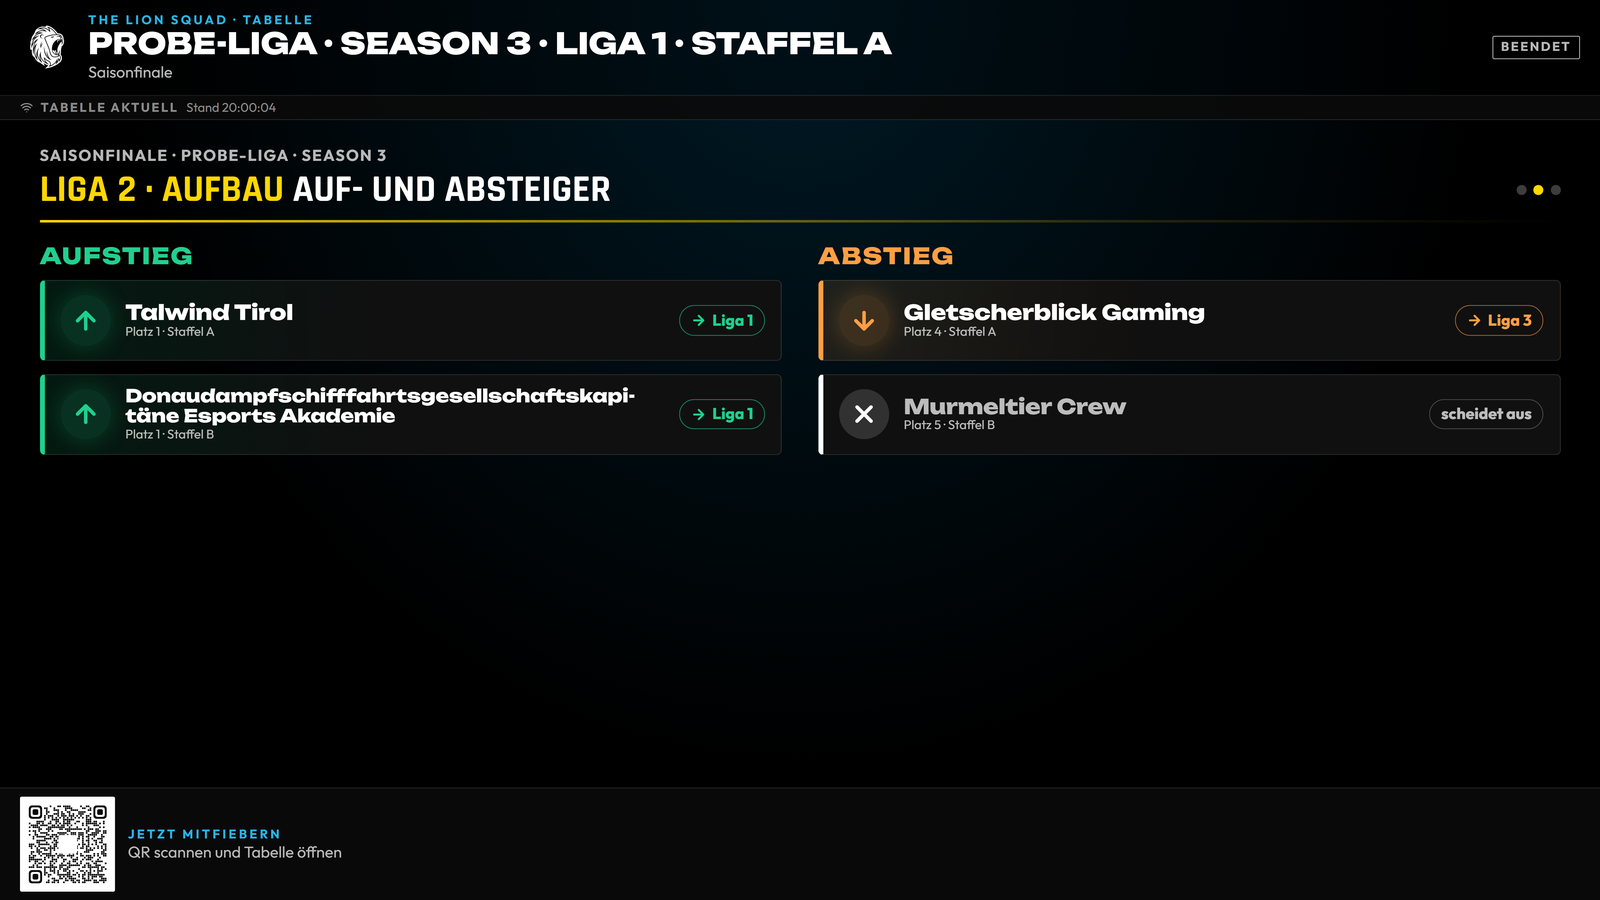
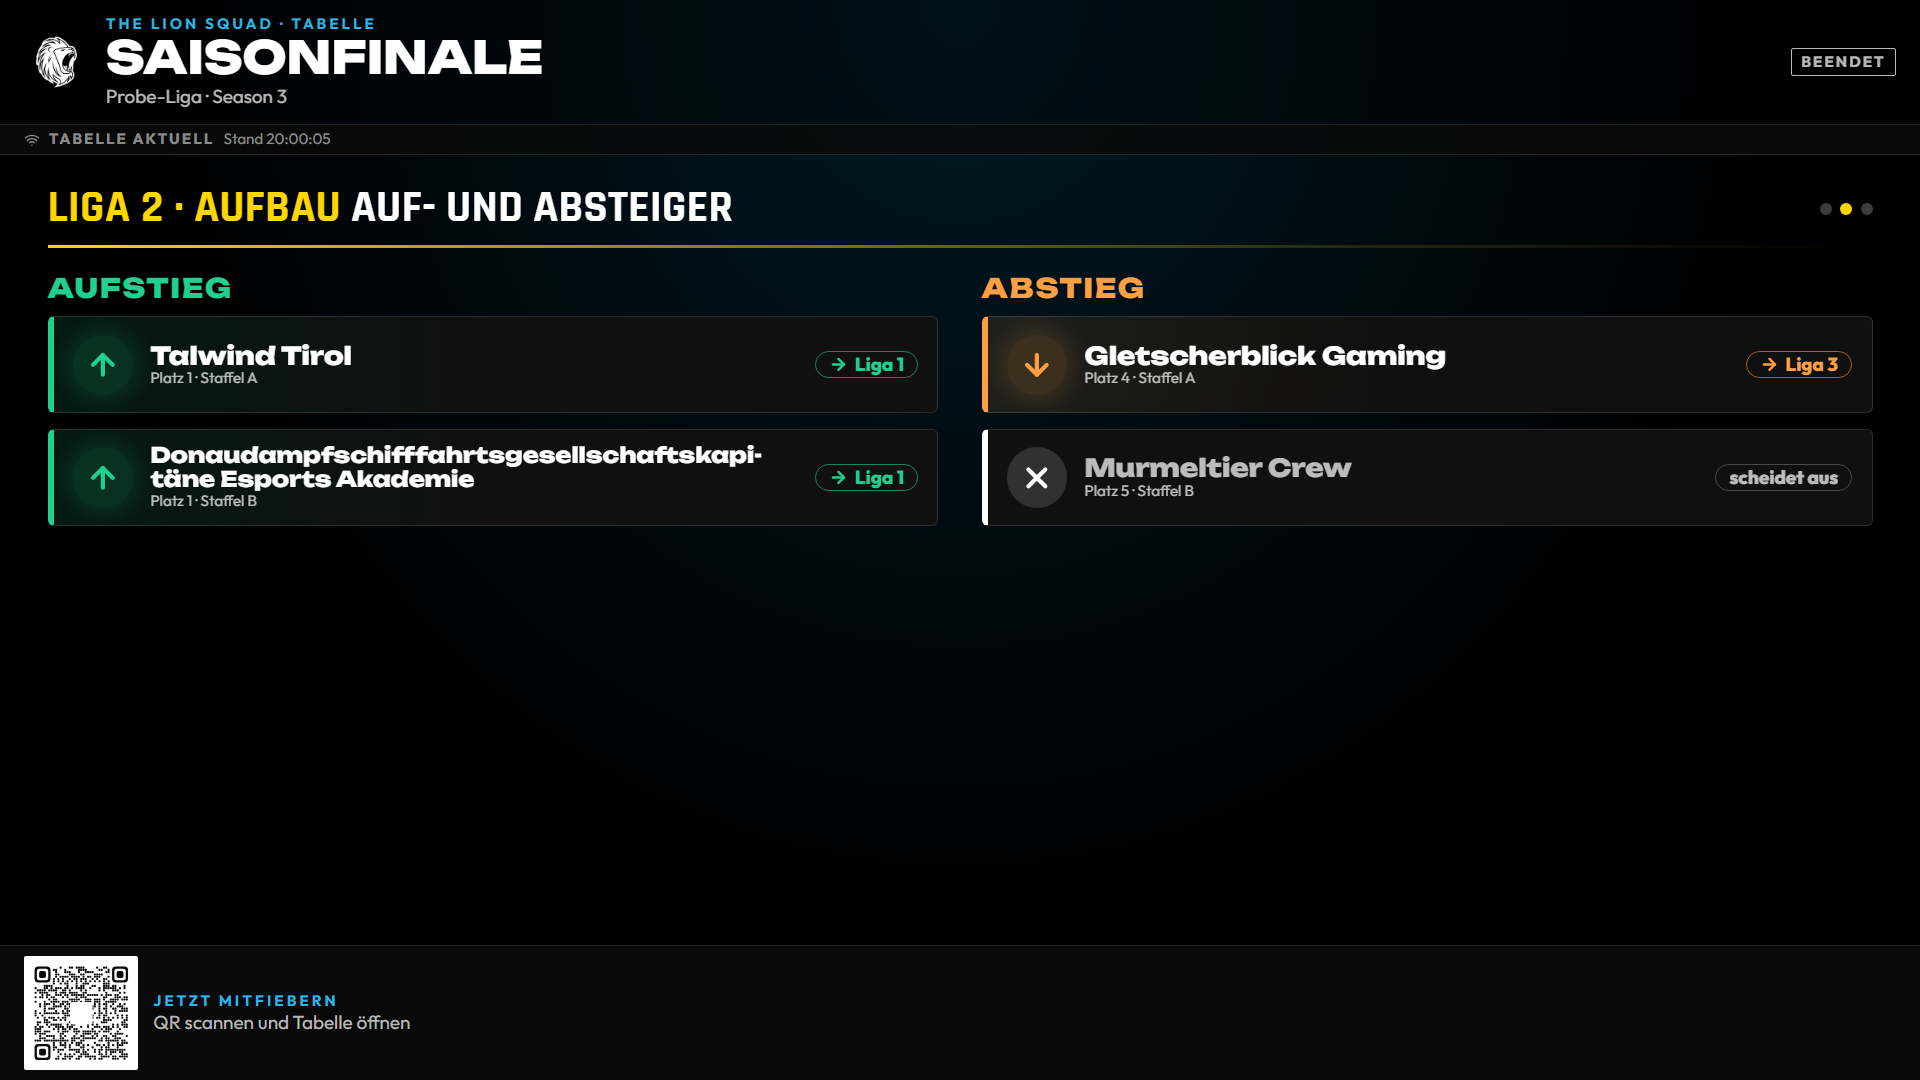
docs: Saisonfinale und Liga-Discord nach den Entscheidungen Nr. 233-236 in Handbuch und LIGA.md (#1641, #1642)
Handbuch liga.md, tv.md, discord.md und docs/LIGA.md F.7: Weiter/Ende bei „Spiele betreuen“, Kanal nur aus
den freigegebenen Kanälen je Zweck, höchstens 8 Zeilen je Spalte am TV, Folge-Season übernimmt die
Einstellung samt „an“; dazu Wiederöffnen, zwei Fenster, beste Zweite und die Zustellung bei Fehlern.
Neue bzw. aktualisierte Bilder aus den Specs.

diff --git a/frontend/e2e/league-season-finale-admin.spec.js b/frontend/e2e/league-season-finale-admin.spec.js
@@ -1,0 +1,141 @@
+const path = require("node:path");
+const { test, expect } = require("@playwright/test");
+
+// Saisonfinale am TV (#1641) und Liga im Discord (#1642) in der Verwaltung der Season, Server nachgestellt: der Kasten „Saisonfinale am
+// TV“ im Reiter „Abschluss“ (Weiter aus einem veralteten Fenster: 409, der Stand wird neu geladen) und der Kasten „Discord“ im Reiter
+// „Termine“ (Kanal nur aus den freigegebenen Kanälen je Zweck, Nr. 234; Hinweise zu unklaren und aufgegebenen Meldungen). Bei 390 und
+// 1440 px ohne seitliches Scrollen. Mit E2E_SCREENS_DIR legt der Test die Bilder ab. Nur erfundene Namen, kein Discord.
+
+const json = (body, status = 200) => (route) => route.fulfill({ status, contentType: "application/json", body: JSON.stringify(body) });
+const consent = () => {
+  window.localStorage.setItem("tls_cookie_consent_v1", JSON.stringify({ essential: true, external_media: false, analytics: false, meta: false, tiktok: false, saved_at: Date.now(), expires_at: Date.now() + 30 * 24 * 60 * 60 * 1000 }));
+};
+
+const ADMIN = { id: "admin-1", username: "leitung", display_name: "Leitung", role: "superadmin", areas: ["tournaments", "leagues"], mfa_enabled: true, auth_mfa_verified: true };
+const day = (offset) => new Date(Date.UTC(2026, 10, 10 + offset)).toISOString().slice(0, 10);
+const CALENDAR = { weeks: Array.from({ length: 10 }, (_, index) => ({ number: index + 1, start_day: day(index * 7), end_day: day(index * 7 + 6), blocked: false })),
+  blocked_weeks: [], active_weeks: 10, max_teams_per_staffel: 10, rounds_needed: 5, end_date: "2027-01-18T22:59:59+00:00" };
+const SCORING = { match_points: { win: 3, draw: 0, loss: 0 }, table_tiebreakers: ["head_to_head", "score_diff"], head_to_head_criteria: ["points"],
+  allow_draws: false, forfeit_score: "best_of", exit_rule: "all_for_opponents" };
+const SEASON_PAGE = {
+  capabilities: ["manage", "season", "applications", "roster", "matches", "results", "disputes", "sanctions", "rules"],
+  league: { id: "l1", name: "Probe-Liga", slug: "probe-liga" },
+  season: { id: "s1", league_id: "l1", number: 3, name: "Season 3", slug: "season-3", start_date: "2026-11-09T23:00:00+00:00", weeks_total: 10, matchday_days: 7,
+    default_match_weekday: 6, default_match_time: "20:00", round_robin_legs: 1, max_staffel_size: 8, best_of: 3, team_size: 4, min_squad_size: 4,
+    game_mode_order: [], scoring_rules: SCORING, result_confirm_hours: 48, lineup_amend_hours: 48, rules_text: "", visibility: "public", status: "completed", blocked_periods: [] },
+  game: { id: "g1", name: "Probe Shooter", slug: "probe-shooter", modes: [] }, calendar: CALENDAR, library: [], map_pool: null,
+  divisions: [1, 2, 3].map((level) => ({ id: `d${level}`, level, overrides: {}, label: `Liga ${level}`, calendar: CALENDAR,
+    settings: { best_of: 3, team_size: 4, min_squad_size: 4, max_staffel_size: 8, scoring_rules: SCORING },
+    staffeln: [{ tournament_id: `t${level}`, staffel: "A", status: "completed", participant_count: 4, max_participants: 8 }] })),
+};
+const CLOSING = { season: { id: "s1", name: "Season 3", status: "completed", closed: true }, can_act: true, superadmin: false, responsible: "„Season konfigurieren“",
+  methods: { playoff: "Entscheidungsspiel", lot: "Los", lead: "Entscheid der Leitung" }, staffeln: [] };
+const TV = { step: 0, count: 3, labels: ["Liga 1", "Liga 2 · Aufbau", "Liga 3"], closed: 3, reason: null };
+const DEFAULTS = { matchday: false, season_end: false, channel_id: "", wait_hours: 48, late: true, table_rows: 5 };
+const DISCORD = {
+  settings: { ...DEFAULTS, matchday: true, season_end: true, channel_id: "100000000000000042" }, active: true, defaults: DEFAULTS, public: true,
+  channel_approved: true, channels_ok: true, channels_text: null,
+  channels: [
+    { id: "100000000000000042", purpose: "Events und Turniere", name: "liga-ergebnisse", category: "Liga", can_send: true },
+    { id: "100000000000000043", purpose: "Community", name: "allgemein", category: "Treffpunkt", can_send: true },
+  ],
+  problems: [
+    { kind: "season_end", label: "Saisonende", status: "unclear", at: "2026-11-23T19:00:00+00:00",
+      text: "Unklar, ob die Meldung ankam - Discord meldete einen Fehler nach dem Senden. Bitte im Kanal nachsehen; sie geht nicht noch einmal hinaus." },
+    { kind: "matchday", label: "Spieltag 9 · Probe-Liga · Season 3 · Liga 2 · Staffel A", status: "failed", at: "2026-11-22T19:00:00+00:00",
+      text: "Nach 3 Versuchen nicht gesendet. Der Bot ist nicht verbunden – der Grund steht im Bot-Kasten unter Verbindungen → Discord." },
+  ],
+};
+
+async function mockServer(page, { tv = TV, discord = DISCORD } = {}) {
+  await page.emulateMedia({ reducedMotion: "reduce" });
+  await page.addInitScript(consent);
+  await page.route("**/api/**", json({}));
+  for (const item of ["sponsors**", "notifications/me", "games"]) await page.route(`**/api/${item}`, json([]));
+  await page.route("**/api/friends", json({ incoming: [], friends: [], outgoing: [] }));
+  await page.route("**/api/auth/me", json(ADMIN));
+  await page.route("**/api/admin/leagues/seasons/s1", json(SEASON_PAGE));
+  await page.route("**/api/admin/leagues/seasons/s1/closing", json(CLOSING));
+  const state = { tv: { ...tv }, posts: [] };
+  await page.route("**/api/admin/leagues/seasons/s1/tv-finale", async (route) => {
+    if (route.request().method() === "POST") {
+      const body = route.request().postDataJSON();
+      state.posts.push(body);
+      // Ein zweites Fenster hat inzwischen weitergeschaltet: Der Stand ist 1, dieses Fenster zeigt noch 0.
+      state.tv = { ...state.tv, step: 1 };
+      return route.fulfill({ status: 409, contentType: "application/json",
+        body: JSON.stringify({ detail: "Der TV-Schritt wurde inzwischen in einem anderen Fenster weitergeschaltet. Der aktuelle Stand ist geladen." }) });
+    }
+    return route.fulfill({ contentType: "application/json", body: JSON.stringify(state.tv) });
+  });
+  await page.route("**/api/admin/leagues/seasons/s1/discord", json(discord));
+  return state;
+}
+
+async function noSideScroll(page) {
+  const overflow = await page.evaluate(() => document.documentElement.scrollWidth - document.documentElement.clientWidth);
+  expect(overflow).toBeLessThanOrEqual(1);
+}
+
+async function shot(target, name) {
+  const dir = process.env.E2E_SCREENS_DIR;
+  if (!dir) return;
+  await target.screenshot({ path: path.join(dir, `${name}.png`), animations: "disabled", style: ".tls-bottom-nav { display: none !important; }" });
+}
+
+test.describe("Liga: Saisonfinale am TV und Discord in der Verwaltung", () => {
+  test.skip(({ isMobile }) => Boolean(isMobile), "Breite wird hier selbst gesetzt");
+
+  for (const [width, height] of [[390, 844], [1440, 900]]) {
+    test(`Abschluss bei ${width} px: Weiter aus einem veralteten Fenster lädt den Stand neu`, async ({ page }) => {
+      await page.setViewportSize({ width, height });
+      const state = await mockServer(page);
+      await page.goto("/admin/leagues/seasons/s1#tv-finale");
+      await expect(page.getByTestId("season-tab-abschluss")).toHaveAttribute("aria-selected", "true");
+      const box = page.getByTestId("tv-finale-control");
+      await expect(box.getByTestId("tv-finale-status")).toHaveText(/gewohnte Bild/);
+      await box.getByTestId("tv-finale-next").click();
+      await expect(box.getByTestId("tv-finale-stale")).toContainText("anderen Fenster");
+      await expect(box.getByTestId("tv-finale-status")).toHaveText(/Der TV zeigt Liga 1 \(1 von 3\)\./);
+      expect(state.posts).toEqual([{ action: "next", from_step: 0 }]);
+      await expect(box.getByTestId("tv-finale-error")).toHaveCount(0);
+      await noSideScroll(page);
+      await box.scrollIntoViewIfNeeded();
+      await shot(box, `admin-tv-steuerung-${width}`);
+    });
+
+    test(`Termine bei ${width} px: Kanal nur aus der freigegebenen Liste, Hinweise zu Meldungen`, async ({ page }) => {
+      await page.setViewportSize({ width, height });
+      await mockServer(page);
+      await page.goto("/admin/leagues/seasons/s1#discord");
+      await expect(page.getByTestId("season-tab-termine")).toHaveAttribute("aria-selected", "true");
+      const box = page.getByTestId("season-discord");
+      const select = box.getByTestId("season-discord-channel");
+      await expect(select).toHaveValue("100000000000000042");
+      await expect(select.locator("option")).toHaveText(["– kein Kanal –", "Events und Turniere · Liga › #liga-ergebnisse", "Community · Treffpunkt › #allgemein"]);
+      await expect(box.getByTestId("season-discord-channel-id")).toHaveCount(0);
+      await expect(box.getByText("Warten auf Ergebnisse (Stunden nach Ende der Spielwoche)")).toBeVisible();
+      const problems = box.getByTestId("season-discord-problems");
+      await expect(problems).toContainText("Saisonende:");
+      await expect(problems).toContainText("im Kanal nachsehen");
+      await expect(problems).toContainText("Spieltag 9");
+      await noSideScroll(page);
+      await box.scrollIntoViewIfNeeded();
+      await shot(box, `admin-discord-${width}`);
+    });
+
+    test(`Termine bei ${width} px: ohne freigegebenen Kanal der Weg zu den Kanälen je Zweck`, async ({ page }) => {
+      await page.setViewportSize({ width, height });
+      await mockServer(page, { discord: { ...DISCORD, channels: [], channel_approved: false, problems: [],
+        settings: { ...DISCORD.settings, channel_id: "100000000000000099" } } });
+      await page.goto("/admin/leagues/seasons/s1#discord");
+      const box = page.getByTestId("season-discord");
+      await expect(box.getByTestId("season-discord-no-channels")).toContainText("Kanäle je Zweck");
+      await expect(box.getByTestId("season-discord-no-channels").getByRole("link")).toHaveAttribute("href", "/admin/integrations/discord");
+      await expect(box.getByTestId("season-discord-not-approved")).toBeVisible();
+      await noSideScroll(page);
+      await box.scrollIntoViewIfNeeded();
+      await shot(box, `admin-discord-ohne-freigabe-${width}`);
+    });
+  }
+});

diff --git a/docs/LIGA.md b/docs/LIGA.md
@@ -4692,11 +4692,20 @@ unteren Liga N (Nr. 222), Relegationsspiele zählen für Sperren (Nr. 223), Verg
 
 - `build_pages(divisions, finals)`: je aktiver Liga N (nach Stufe) die Zeilen der geltenden Endstände mit `zone` `promotion` (`up`),
   `relegation` (`down`) und `out` - Relegationsplätze haben keine Wirkung (`league_zones.MOVES`) und fehlen. Ziel ist die benachbarte
-  Liga N nach Stufe. Je Seite höchstens 12 Zeilen (`more`), Liga N ohne Bewegung fallen weg.
+  Liga N nach Stufe. Liga N ohne Bewegung fallen weg. Zonen über Staffeln hinweg (#1627, „beste Zweite“) liest `season_finals` mit
+  (`zones` in der Projektion, `league_cross_zones.overlay_finals`) - TV, Steuerung und Discord-Saisonende zeigen dieselbe Zone wie
+  Tabelle und Folge-Season.
+- **Nr. 235 (23.11.):** am TV höchstens `TV_COLUMN_ROWS = 8` Zeilen je Spalte (Aufstieg | Abstieg und Ausscheiden), der Rest als
+  `more_up`/`more_down` („und N weitere“ unter der Spalte). Discord bekommt alle Zeilen (`column_max=None`). Frontend: `COLUMN_ROWS`,
+  `columnWeight` (lange Namen und Ziel-Ligen zählen eine halbe Zeile mehr), Namen nie unter `--tv-fs-name-min`; die Kopfleiste zeigt
+  im Schritt „Saisonfinale“ mit Liga und Season.
 - Stand je Staffel-Turnier `tournaments.tv_finale = {step, updated_at}` (0 aus, 1..n Seite je Liga N) - bewusst nicht an der Season,
   weil F.2 Season-Felder in die Folge-Season kopiert. Wer geschaltet hat, steht nur im Protokoll `league.season.tv_finale`.
-- `GET|POST /api/admin/leagues/seasons/{id}/tv-finale` (`{action: "next"|"end"}`): lesen jede Zuständigkeit, schalten `matches`.
-  „Weiter“ bleibt auf der letzten Seite stehen. Geschaltet werden alle abgeschlossenen Staffeln zugleich; danach je Staffel ein
+- `GET|POST /api/admin/leagues/seasons/{id}/tv-finale` (`{action: "next"|"end", from_step?}`): lesen jede Zuständigkeit, schalten
+  `matches` (Nr. 233: bleibt bei „Spiele betreuen“). „Weiter“ bleibt auf der letzten Seite stehen. Mit `from_step` (Stand im Fenster
+  der Leitung) gibt „Weiter“ 409, wenn ein anderes Fenster schon geschaltet hat; das Fenster lädt dann neu.
+- Wiederöffnen (`league_final.reopen`, auch die Reparatur eines abgebrochenen Abschlusses) nimmt `tv_finale` an allen Staffeln der
+  Season weg (`league_finale.forget`), Abschließen räumt es am Turnier weg - der TV zeigt den Schritt erst nach dem nächsten „Weiter“. Geschaltet werden alle abgeschlossenen Staffeln zugleich; danach je Staffel ein
   Nachlade-Ereignis (`publish_api_change`), damit die TVs sofort folgen.
 - `GET /api/tournaments/{tid}/bracket/display` trägt `league_finale = {step, count, league, season, pages}` - nur bei abgeschlossener
   Staffel, die Gäste sehen (`guest_sees_staffel`, wie `awards._visible`), in einer Season mit `public_season`. Interne und
@@ -4708,18 +4717,28 @@ unteren Liga N (Nr. 222), Relegationsspiele zählen für Sperren (Nr. 223), Verg
 
 - Einstellung `league_seasons.discord_digest`: `matchday`, `season_end` (Vorgabe aus), `channel_id` (Pflicht, sobald etwas an ist; kein
   Rückfall), `wait_hours` (48, 0-336), `late` (an), `table_rows` (5, 0-20), `matchday_since` (gesetzt beim Einschalten). Die Folge-Season
-  übernimmt sie (F.2). `GET|PUT /api/admin/leagues/seasons/{id}/discord`: lesen jede Zuständigkeit (mit den Textkanälen des Hauptservers),
-  ändern `season`; Protokoll `league.season.discord_digest`. Verwaltung: `SeasonDiscordPanel` im Reiter „Termine“ (`#discord`).
+  übernimmt sie samt „an“ (F.2, Nr. 236). `GET|PUT /api/admin/leagues/seasons/{id}/discord`: lesen jede Zuständigkeit, ändern `season`;
+  Protokoll `league.season.discord_digest`. Verwaltung: `SeasonDiscordPanel` im Reiter „Termine“ (`#discord`).
+- **Kanal nur aus der freigegebenen Liste (Nr. 234, 23.11.):** `approved_channels` = die öffentlichen „Kanäle je Zweck“ des Hauptservers
+  (`settings.discord.channels`, Ziele `PUBLIC_TARGETS`: community, news, events), Kanal-ID → Zweck. `PUT` mit einem anderen Kanal: 422.
+  `GET` liefert nur diese Kanäle (mit `purpose`, Name aus der Kanalliste des Bots), dazu `channel_approved` und `problems`. Der Job
+  sendet nur in freigegebene Kanäle; fällt einer heraus, wird nichts belegt.
 - **Spieltag fertig** (`matchday_due`): alle Spiele gewertet oder abgesagt (`SETTLED`), sonst mit `late` ab Ende der Spielwoche plus
-  `wait_hours` mit „x Spiele offen“; ohne ein Ergebnis nie. Spieltage, deren Meldefrist vor `matchday_since` endete, gehen nicht hinaus.
+  `wait_hours` mit „x Spiele offen“; ohne ein Ergebnis nie. Spieltage, deren Meldefrist vor `matchday_since` endete, gehen nicht hinaus;
+  ohne Spielwoche (`window_end` fehlt) zählt das letzte Ergebnis (`completed_at`), ohne jede Zeitangabe gilt der Spieltag als alt.
 - **Saisonende**: Season `completed` (`league_final._season_follows`), Meister aus den Endständen, Auf- und Absteiger aus `build_pages`,
   Link `/liga/{liga}/{season}`.
 - Nur öffentliche Seasons (`public_season`) und Staffeln, die Gäste sehen; Discord bzw. Bot aus: nichts gesendet, nichts belegt.
 - **Doppelversand:** `league_discord_posts` mit eindeutigem `dedupe_key` (`matchday:{tid}:{n}`, `season_end:{season_id}`). Vor dem Senden
-  belegt der Job den Schlüssel per Upsert; nur wer ihn belegt, sendet. Fehlschlag: `status: failed`, höchstens drei Versuche, frühestens
-  nach 30 Minuten. Ein Eintrag `sending` (Lauf abgebrochen) bleibt - lieber keine als zwei Meldungen.
+  belegt der Job den Schlüssel per Upsert; nur wer ihn belegt, sendet. Wiederholt wird nur, wenn sicher nichts hinausging (`retryable`:
+  `bot_offline`, `unknown_channel`, `forbidden`, Discord 4xx): `status: failed`, höchstens drei Versuche, frühestens nach 30 Minuten.
+  Zeitüberschreitung, Discord 5xx oder ein unbekannter Fehler nach dem Absenden: `status: unclear`, nie wiederholt. `unclear` und
+  aufgegebene Einträge stehen in `problems` (Kasten „Meldungen, die du prüfen solltest“). Ein Eintrag `sending` (Lauf abgebrochen)
+  bleibt - lieber keine als zwei Meldungen. Die Vorprüfung (`blocked`) überspringt gesendete, laufende, unklare, aufgegebene und noch
+  wartende Einträge, bevor Namen und Tabelle geladen werden.
 - Texte (`matchday_message`, `season_end_message`): kurz, deutsch, Markdown in Namen entschärft, lange Listen verlieren ganze Zeilen
-  („… und x weitere“), nie einen halben Namen.
+  („… und x weitere“), nie einen halben Namen. Je Embed höchstens 6000 Zeichen (`EMBED_MAX`), sonst „… und N weitere Liga N auf der
+  Season-Seite“.
 
 **Nicht in F.7:** Rückblick-Seite (#1640 - die Meldung verlinkt bis dahin die Season-Seite), Liga-Abzeichen statt „Liga N“ (#1638),
 Meldung auf Spielservern (nur ein Kanal, gewählt aus dem Hauptserver), eine Korrektur-Meldung nach Wiederöffnen, die App.

diff --git a/docs/handbuch/discord.md b/docs/handbuch/discord.md
@@ -39,7 +39,7 @@ es gibt keinen eigenen Container und nichts in der `.env`.
 | **Bracket im Discord** | Das Bracket eines laufenden Turniers, angeheftet und nach jedem Ergebnis aktualisiert | automatisch im Turnier-Thread | an |
 | **Einbettungen, die sich aktualisieren** | Je eine angeheftete Nachricht: Rangliste, Nächste Events, Erfolg der Woche | Reiter „Einbettungen & Termine“ | aus |
 | **Stream-Meldungen** | Je Stream eine Meldung mit Vorschaubild, sobald jemand aus dem Verein live geht; am Ende gelöscht – so zeigt der Kanal, wer gerade live ist | Reiter „Einbettungen & Termine“ | aus |
-| **Liga: Spieltag und Saisonende** | Je Staffel eine Zusammenfassung nach jedem Spieltag (Ergebnisse, Tabellenausschnitt), am Ende der Season Meister, Auf- und Absteiger mit Link – je Season ein Kanal, nur öffentliche Seasons, nie doppelt | Liga-Verwaltung: Season → Reiter „Termine“ → Discord ([Liga, 2.7g](liga.md#27g-discord-meldungen)) | aus |
+| **Liga: Spieltag und Saisonende** | Je Staffel eine Zusammenfassung nach jedem Spieltag (Ergebnisse, Tabellenausschnitt), am Ende der Season Meister, Auf- und Absteiger mit Link – je Season ein Kanal aus den freigegebenen öffentlichen „Kanälen je Zweck“ (2.4), nur öffentliche Seasons, nie doppelt | Liga-Verwaltung: Season → Reiter „Termine“ → Discord ([Liga, 2.7g](liga.md#27g-discord-meldungen)) | aus |
 | **Gestaltung** | Aussehen der Stream-Meldungen und Einbettungen frei gestalten – mit Live-Vorschau | Reiter „Gestaltung“ | Standard-Design |
 | **Discord-Termine** | Jedes öffentliche Event und Turnier als Discord-Event mit „Interessiert“-Knopf | Reiter „Einbettungen & Termine“ | aus |
 | **Willkommensnachricht** | Wer neu auf den Server kommt, bekommt eine Direktnachricht mit „Anmelden“ und „Konto verknüpfen“ | Reiter „Willkommen“ | aus |
@@ -161,6 +161,10 @@ Dann auf der Website: **Reiter „Meldungen“ → „Kanäle je Zweck“** → 
 Speichern → „Test“. Ausgegraute Kanäle darf der Bot nicht beschreiben – der Grund steht daneben.
 Ist der Bot gerade nicht verbunden, lässt sich die Kanal-ID eintragen (Discord → Einstellungen →
 Erweitert → Entwicklermodus an → Rechtsklick auf den Kanal → „Kanal-ID kopieren“).
+
+**Liga-Meldungen:** Die Liga-Leitung wählt für Spieltag- und Saisonende-Meldungen nur aus den hier eingetragenen
+**öffentlichen** Kanälen (Community, News, Events und Turniere). Soll die Liga in einen eigenen Kanal melden, tragt ihn hier
+bei einem dieser Zwecke ein. Private Zwecke stehen der Liga nie zur Wahl (Nr. 234, [Liga, 2.7g](liga.md#27g-discord-meldungen)).
 
 ### 2.5 Festlegen, was gemeldet wird
 

diff --git a/docs/handbuch/tv.md b/docs/handbuch/tv.md
@@ -175,9 +175,15 @@ Turnier, wechselt er durch die **Wiedergabeliste**:
   (links, grün, Pfeil hinauf) und wer absteigt oder ausscheidet (rechts, Pfeil hinunter), mit Platz und Ziel-Liga. Die Zeilen
   gleiten nacheinander auf ihren Platz – Aufsteiger von unten, Absteiger von oben –, danach kommt die Ziel-Liga, zuletzt die Linie
   unter dem Titel. Jedes weitere **Weiter** zeigt die nächste Liga N, **Ende** das gewohnte Bild. Solange der Schritt steht, wartet
-  die Wiedergabeliste. Nur bei öffentlichen Seasons; mit **Bewegung aus** steht das Bild sofort.
+  die Wiedergabeliste und die Kopfleiste zeigt **Saisonfinale** mit Liga und Season statt der eigenen Staffel. Nur bei öffentlichen
+  Seasons; mit **Bewegung aus** steht das Bild sofort.
+  **Viele Teams:** Je Spalte stehen höchstens **8 Zeilen**, der Rest darunter als „und N weitere“ (Nr. 235). Alles bleibt über der
+  Fußleiste, kein Name wird kleiner als die Mindestgröße für TV-Namen; lange Namen und lange Ziel-Ligen brechen um, statt
+  abgeschnitten zu werden.
 
-  <img src="../assets/tv/tv-saisonfinale-1920.png" alt="TV bei 1920 Pixeln: Saisonfinale Liga 2, links Aufstieg mit zwei Teams und Ziel Liga 1, rechts Abstieg mit Ziel Liga 3 und ein Team, das ausscheidet" width="820">
+  <img src="../assets/tv/tv-saisonfinale-1920.png" alt="TV bei 1920 Pixeln: Kopfleiste Saisonfinale, Liga 2, links Aufstieg mit zwei Teams und Ziel Liga 1, rechts Abstieg mit Ziel Liga 3 und ein Team, das ausscheidet" width="820">
+
+  <img src="../assets/tv/tv-saisonfinale-12-kandidaten-1920.png" alt="TV bei 1920 Pixeln: Saisonfinale Liga 2 mit je acht Zeilen in Aufstieg und Abstieg, darunter jeweils und 4 weitere" width="820">
 
 **Pause bis:** Setzt ihr ein Turnier unter **Admin → eSports → Turniere → Turnier öffnen** auf **Pausiert**, erscheint
 darunter das Feld **Pause bis**. Uhrzeit wählen, **Speichern**, und der TV zeigt „Weiter um …“ mit Countdown. **Ohne
